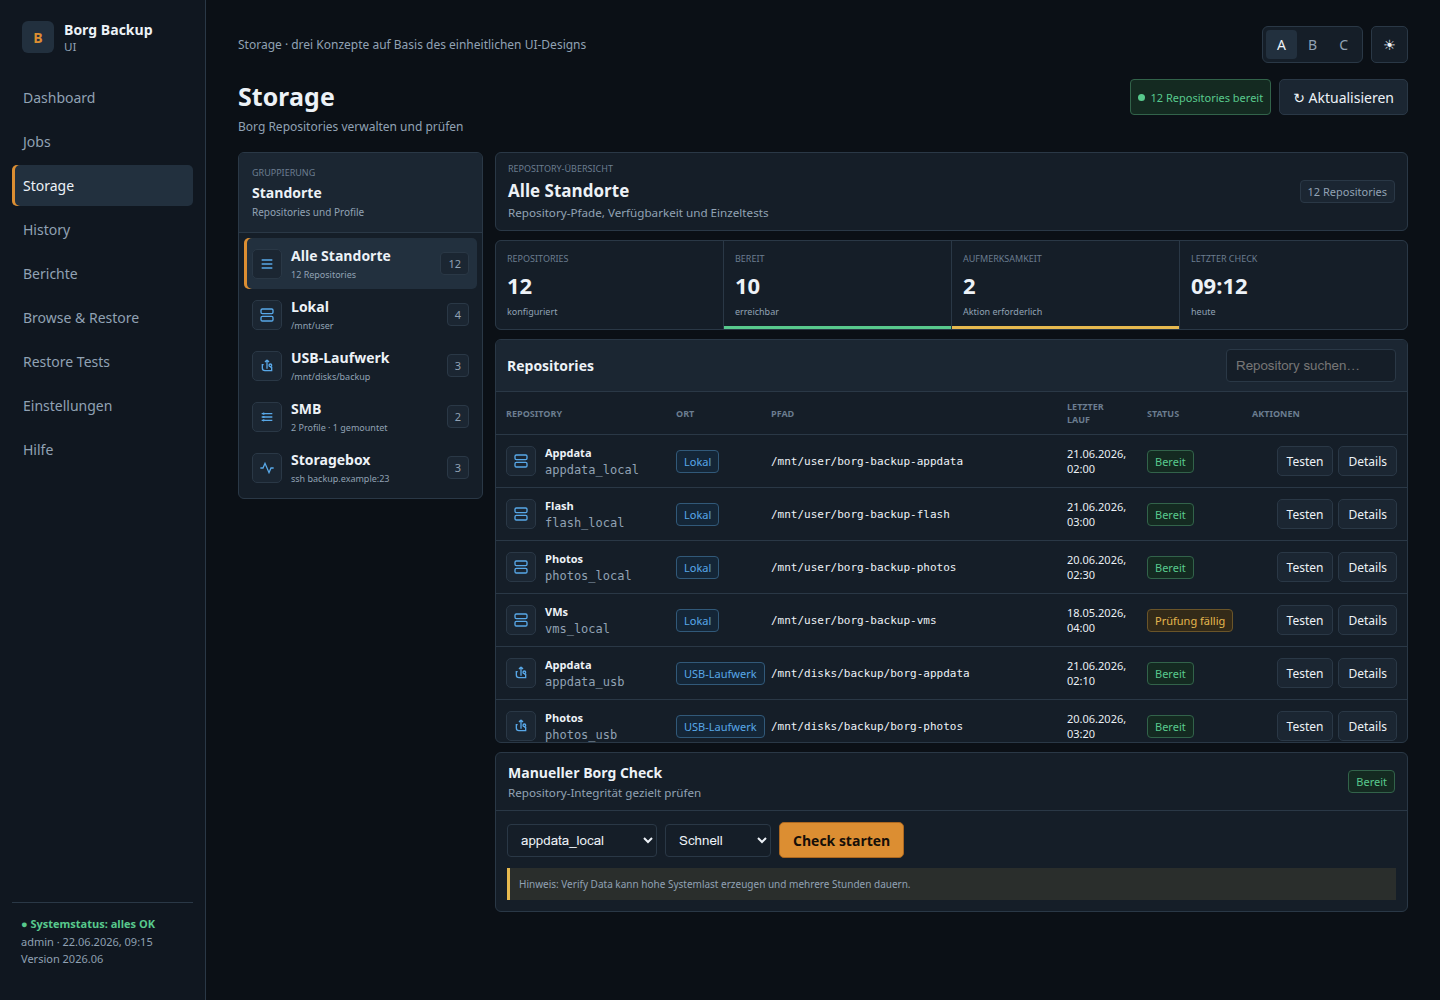
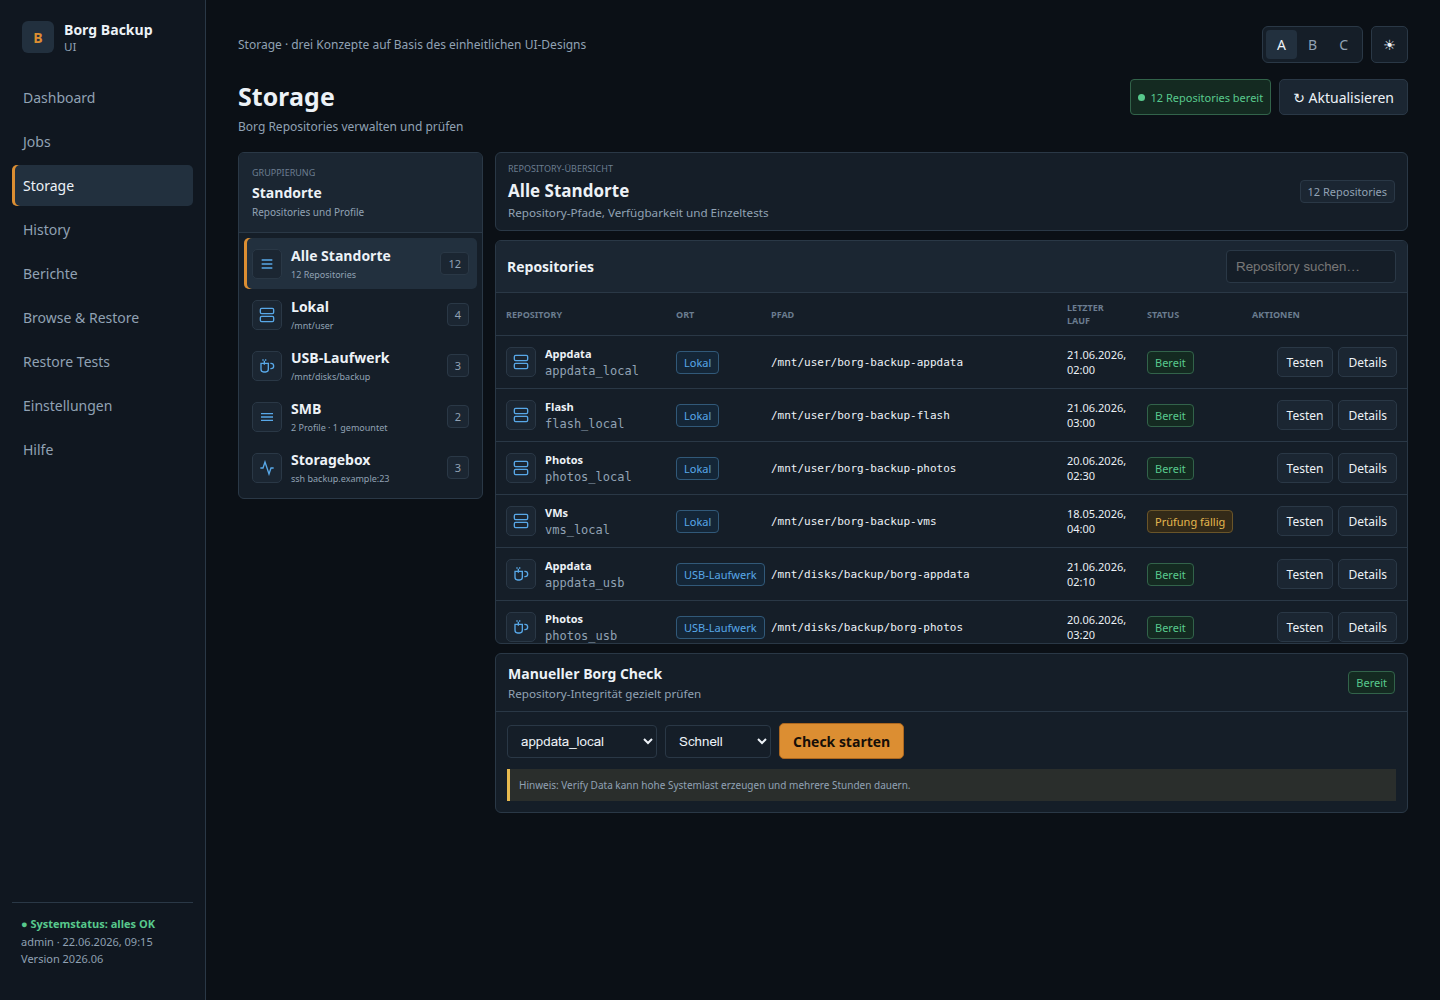
Approve Storage variant A design (#34)

diff --git a/docs/ui-design/storage-study/storage.js b/docs/ui-design/storage-study/storage.js
@@ -24,10 +24,10 @@
   const badge = (text, cls='neutral') => `<span class="badge ${cls}">${text}</span>`;
   const locationSvg = key => ({
     all:'<svg viewBox="0 0 24 24" fill="none" stroke="currentColor" stroke-width="2"><path d="M4 6h16M4 12h16M4 18h16"/></svg>',
-    local:'<svg viewBox="0 0 24 24" fill="none" stroke="currentColor" stroke-width="2"><rect x="3" y="3" width="18" height="7" rx="2"/><rect x="3" y="14" width="18" height="7" rx="2"/><path d="M7 6.5h.01M7 17.5h.01"/></svg>',
-    usb:'<svg viewBox="0 0 24 24" fill="none" stroke="currentColor" stroke-width="2"><path d="M12 3v13m0-13-3 3m3-3 3 3M7 10H5v5a4 4 0 0 0 4 4h3m5-5h2v5h-7"/><circle cx="17" cy="11" r="2"/></svg>',
-    smb:'<svg viewBox="0 0 24 24" fill="none" stroke="currentColor" stroke-width="2"><path d="M4 7h16M4 12h16M4 17h16"/><circle cx="7" cy="7" r=".6" fill="currentColor"/><circle cx="7" cy="12" r=".6" fill="currentColor"/><circle cx="7" cy="17" r=".6" fill="currentColor"/></svg>',
-    storagebox:'<svg viewBox="0 0 24 24" fill="none" stroke="currentColor" stroke-width="2"><path d="M22 12h-4l-3 7-6-14-3 7H2"/></svg>',
+    local:'<svg viewBox="0 0 24 24" fill="none" stroke="currentColor" stroke-width="2"><rect x="2" y="2" width="20" height="8" rx="2"/><rect x="2" y="14" width="20" height="8" rx="2"/><line x1="6" y1="6" x2="6.01" y2="6" stroke-width="3"/><line x1="6" y1="18" x2="6.01" y2="18" stroke-width="3"/></svg>',
+    usb:'<svg viewBox="0 0 24 24" fill="none" stroke="currentColor" stroke-width="2"><path d="M17 8h1a4 4 0 0 1 0 8h-1"/><path d="M3 8h11v9a4 4 0 0 1-4 4H7a4 4 0 0 1-4-4V8z"/><line x1="6" y1="2" x2="6" y2="4"/><line x1="10" y1="2" x2="10" y2="4"/><line x1="8" y1="4" x2="8" y2="10"/></svg>',
+    smb:'<svg viewBox="0 0 24 24" fill="none" stroke="currentColor" stroke-width="2"><path d="M3 7h18"/><path d="M3 12h18"/><path d="M3 17h18"/></svg>',
+    storagebox:'<svg viewBox="0 0 24 24" fill="none" stroke="currentColor" stroke-width="2"><path d="M22 12h-4l-3 9L9 3l-3 9H2"/></svg>',
   }[key] || '<svg viewBox="0 0 24 24"><circle cx="12" cy="12" r="8"/></svg>');
   const icon = key => `<span class="location-icon">${locationSvg(key)}</span>`;
   const title = key => locations.find(item=>item.key===key)?.name || key;
@@ -36,7 +36,7 @@
   const checkPanel = (compact=false) => `<section class="manual-check ${compact?'board-check':''}"><div class="check-head"><span><strong>Manueller Borg Check</strong><small>Repository-Integrität gezielt prüfen</small></span>${badge('Bereit','ok')}</div><div class="check-body"><div class="check-controls"><select><option>${selected}</option><option>Repository wählen</option></select>${compact?'':`<select data-check-level><option value="quick">Schnell</option><option value="verbose">Verbose</option><option value="verify">Verify Data</option></select><button class="btn primary" data-run-check>Check starten</button>`}</div>${compact?`<div class="mode-list"><button class="mode-choice active" data-mode="quick"><strong>Schnell</strong><small>Routineprüfung mit geringer Last</small></button><button class="mode-choice" data-mode="verbose"><strong>Verbose</strong><small>Ausführliche Repository-Prüfung</small></button><button class="mode-choice" data-mode="verify"><strong>Verify Data</strong><small>Vollständige Datenprüfung</small></button></div><div class="risk-note">Verify Data kann mehrere Stunden dauern und hohe I/O-Last erzeugen.</div><button class="btn primary" data-run-check>Check starten</button>`:`<div class="load-warning">Hinweis: Verify Data kann hohe Systemlast erzeugen und mehrere Stunden dauern.</div>`}<div class="check-log" data-check-log hidden><div class="log-toolbar"><span>${badge('Läuft…','info')} appdata_local</span><span><button class="btn sm">Leeren</button> <button class="btn icon sm">×</button></span></div><pre>09:15:02  borg check gestartet\n09:15:03  Repository geöffnet\n09:15:06  Archive werden geprüft…</pre></div></div></section>`;
   const repoRow = repo => `<tr><td><div class="repo-main">${icon(repo.location)}<span><strong>${repo.name}</strong><small class="mono">${repo.key}</small></span></div></td><td>${badge(title(repo.location),'info')}</td><td class="mono">${repo.path}</td><td>${repo.last}</td><td>${badge(repo.status,repo.cls)}</td><td><div class="row-actions">${repo.location==='smb'?'<button class="btn sm">Mount</button><button class="btn sm">Unmount</button>':''}<button class="btn sm">Testen</button><button class="btn sm">Details</button></div></td></tr>`;
   const locationNav = () => `<aside class="location-sidebar"><div class="side-head"><span class="label">Gruppierung</span><strong>Standorte</strong><small>Repositories und Profile</small></div><nav class="location-list">${locations.map(item=>`<button class="location-entry ${selectedLocation===item.key?'active':''}" data-location="${item.key}">${icon(item.key)}<span><strong>${item.name}</strong><small>${item.meta}</small></span>${badge(item.count)}</button>`).join('')}</nav></aside>`;
-  const variantA = () => `<div class="storage-layout">${locationNav()}<section class="workspace"><header class="workspace-head"><div><span class="label">Repository-Übersicht</span><h2>${title(selectedLocation)}</h2><small>Repository-Pfade, Verfügbarkeit und Einzeltests</small></div>${badge(`${visible().length} Repositories`)}</header>${summary()}<section class="repo-panel"><div class="repo-tools"><strong>Repositories</strong><input type="search" placeholder="Repository suchen…"></div><div class="table-wrap"><table class="repo-table"><thead><tr><th>Repository</th><th>Ort</th><th>Pfad</th><th>Letzter Lauf</th><th>Status</th><th>Aktionen</th></tr></thead><tbody>${visible().map(repoRow).join('')}</tbody></table></div></section>${checkPanel()}</section></div>`;
+  const variantA = () => `<div class="storage-layout">${locationNav()}<section class="workspace"><header class="workspace-head"><div><span class="label">Repository-Übersicht</span><h2>${title(selectedLocation)}</h2><small>Repository-Pfade, Verfügbarkeit und Einzeltests</small></div>${badge(`${visible().length} Repositories`)}</header><section class="repo-panel"><div class="repo-tools"><strong>Repositories</strong><input type="search" placeholder="Repository suchen…"></div><div class="table-wrap"><table class="repo-table"><thead><tr><th>Repository</th><th>Ort</th><th>Pfad</th><th>Letzter Lauf</th><th>Status</th><th>Aktionen</th></tr></thead><tbody>${visible().map(repoRow).join('')}</tbody></table></div></section>${checkPanel()}</section></div>`;
   const band = key => `<section class="location-band"><header><span class="band-title">${icon(key)}<strong>${title(key)}</strong></span>${badge(`${repos.filter(r=>r.location===key).length} Repositories`)}</header>${repos.filter(r=>r.location===key).map(repo=>`<div class="board-row"><div><strong>${repo.name}</strong><small class="mono">${repo.key}</small></div><div class="mono">${repo.path}</div><div>${badge(repo.status,repo.cls)}</div><div class="row-actions">${repo.location==='smb'?'<button class="btn sm">Mount</button>':''}<button class="btn sm">Testen</button></div></div>`).join('')}</section>`;
   const variantB = () => `<div class="board-layout"><section class="board-main">${summary('board-summary')}${['local','usb','smb','storagebox'].map(band).join('')}</section>${checkPanel(true)}</div>`;
   const repoSidebar = () => `<aside class="repo-sidebar"><div class="side-head"><span class="label">Auswahl</span><strong>Repositories</strong><small>12 aus 4 Standorten</small></div><div class="repo-search"><input type="search" placeholder="Repository suchen…"></div><nav>${['local','usb','smb','storagebox'].map(key=>`<section class="repo-group"><header>${title(key)}<span>${repos.filter(r=>r.location===key).length}</span></header>${repos.filter(r=>r.location===key).map(repo=>`<button class="repo-entry ${selected===repo.key?'active':''}" data-repository="${repo.key}">${icon(repo.location)}<span><strong>${repo.name}</strong><small>${repo.key}</small></span><i class="state-dot ${repo.cls==='warn'?'warn':''}"></i></button>`).join('')}</section>`).join('')}</nav></aside>`;

diff --git a/tests/test_storage_design_study.py b/tests/test_storage_design_study.py
@@ -33,3 +33,10 @@ def test_storage_study_reuses_location_icons_and_responsive_states() -> None:
     assert "html[data-theme=light]" in css
     assert "@media(max-width:1100px)" in css
     assert "@media(max-width:720px)" in css
+
+
+def test_approved_variant_a_omits_summary_ledger() -> None:
+    script = _read("docs/ui-design/storage-study/storage.js")
+    variant_a = script.split("const variantA", 1)[1].split("const band", 1)[0]
+    assert "summary()" not in variant_a
+    assert "Alle Standorte" in script

diff --git a/docs/ui-design/README.md b/docs/ui-design/README.md
@@ -27,24 +27,19 @@ an additional Jobs layout decision.
 | Restore Tests | `restore-tests-sidebar-study` | Single variant | [#31](https://github.com/borgforge/borg-backup-ui/issues/31) | [Dark](screenshots/restore-tests-dark.png) / [Light](screenshots/restore-tests-light.png) |
 | Browse and Restore | `browse-restore-sidebar-study` | Single variant | [#32](https://github.com/borgforge/borg-backup-ui/issues/32) | [Dark](screenshots/browse-restore-dark.png) / [Light](screenshots/browse-restore-light.png) |
 | Settings | `settings-sidemenu-study` | Single variant | [#33](https://github.com/borgforge/borg-backup-ui/issues/33) | [Dark](screenshots/settings-dark.png) / [Light](screenshots/settings-light.png) |
+| Storage | `storage-study` | Variant A without summary ledger | [#34](https://github.com/borgforge/borg-backup-ui/issues/34) | [Dark](screenshots/storage-variant-a-dark.png) / [Light](screenshots/storage-variant-a-light.png) |
 
-There is no separate approved Storage study. Storage must derive its surfaces,
-context sidebar, workspace, tables, and status presentation from this shared
-foundation in [#34](https://github.com/borgforge/borg-backup-ui/issues/34).
+### Storage alternatives
 
-### Storage candidates
-
-The unapproved `storage-study` provides three candidates for the decision in
-issue #34. All three retain repository tests, SMB mount controls, manual Borg
-check levels, load warnings, and log actions.
+Variant A is approved without the repository summary ledger. Variants B and C
+remain archived alternatives. All three retain repository tests, SMB mount
+controls, manual Borg check levels, load warnings, and log actions.
 
 | Candidate | Focus | Screenshot |
 | --- | --- | --- |
-| A | Location sidebar with repository workspace | [Dark](screenshots/storage-variant-a-dark.png) / [Light](screenshots/storage-variant-a-light.png) |
+| A (approved) | Location sidebar with repository workspace, without summary ledger | [Dark](screenshots/storage-variant-a-dark.png) / [Light](screenshots/storage-variant-a-light.png) |
 | B | Dense location board with persistent check controls | [Dark](screenshots/storage-variant-b-dark.png) / [Light](screenshots/storage-variant-b-light.png) |
 | C | Repository inspector with detail and check context | [Dark](screenshots/storage-variant-c-dark.png) / [Light](screenshots/storage-variant-c-light.png) |
-
-No Storage candidate is approved until the maintainer selects a variant.
 
 Help keeps its existing content in the new visual foundation. A contextual
 table-of-contents sidebar may be added where it improves navigation. Rewriting
@@ -52,6 +47,11 @@ the standalone handbook is outside this redesign and remains tracked
 separately.
 
 ## Shared layout rules
+
+German UI terminology uses `Standorte` and `Alle Standorte` for location
+navigation and filters. Compact table headers use `Ort`. English uses
+`Locations`, `All locations`, and `Location`. Internal API fields and code may
+keep the existing `location` identifiers.
 
 - Preserve the existing primary navigation and route structure.
 - Use a consistent page header for title, context, and primary actions.